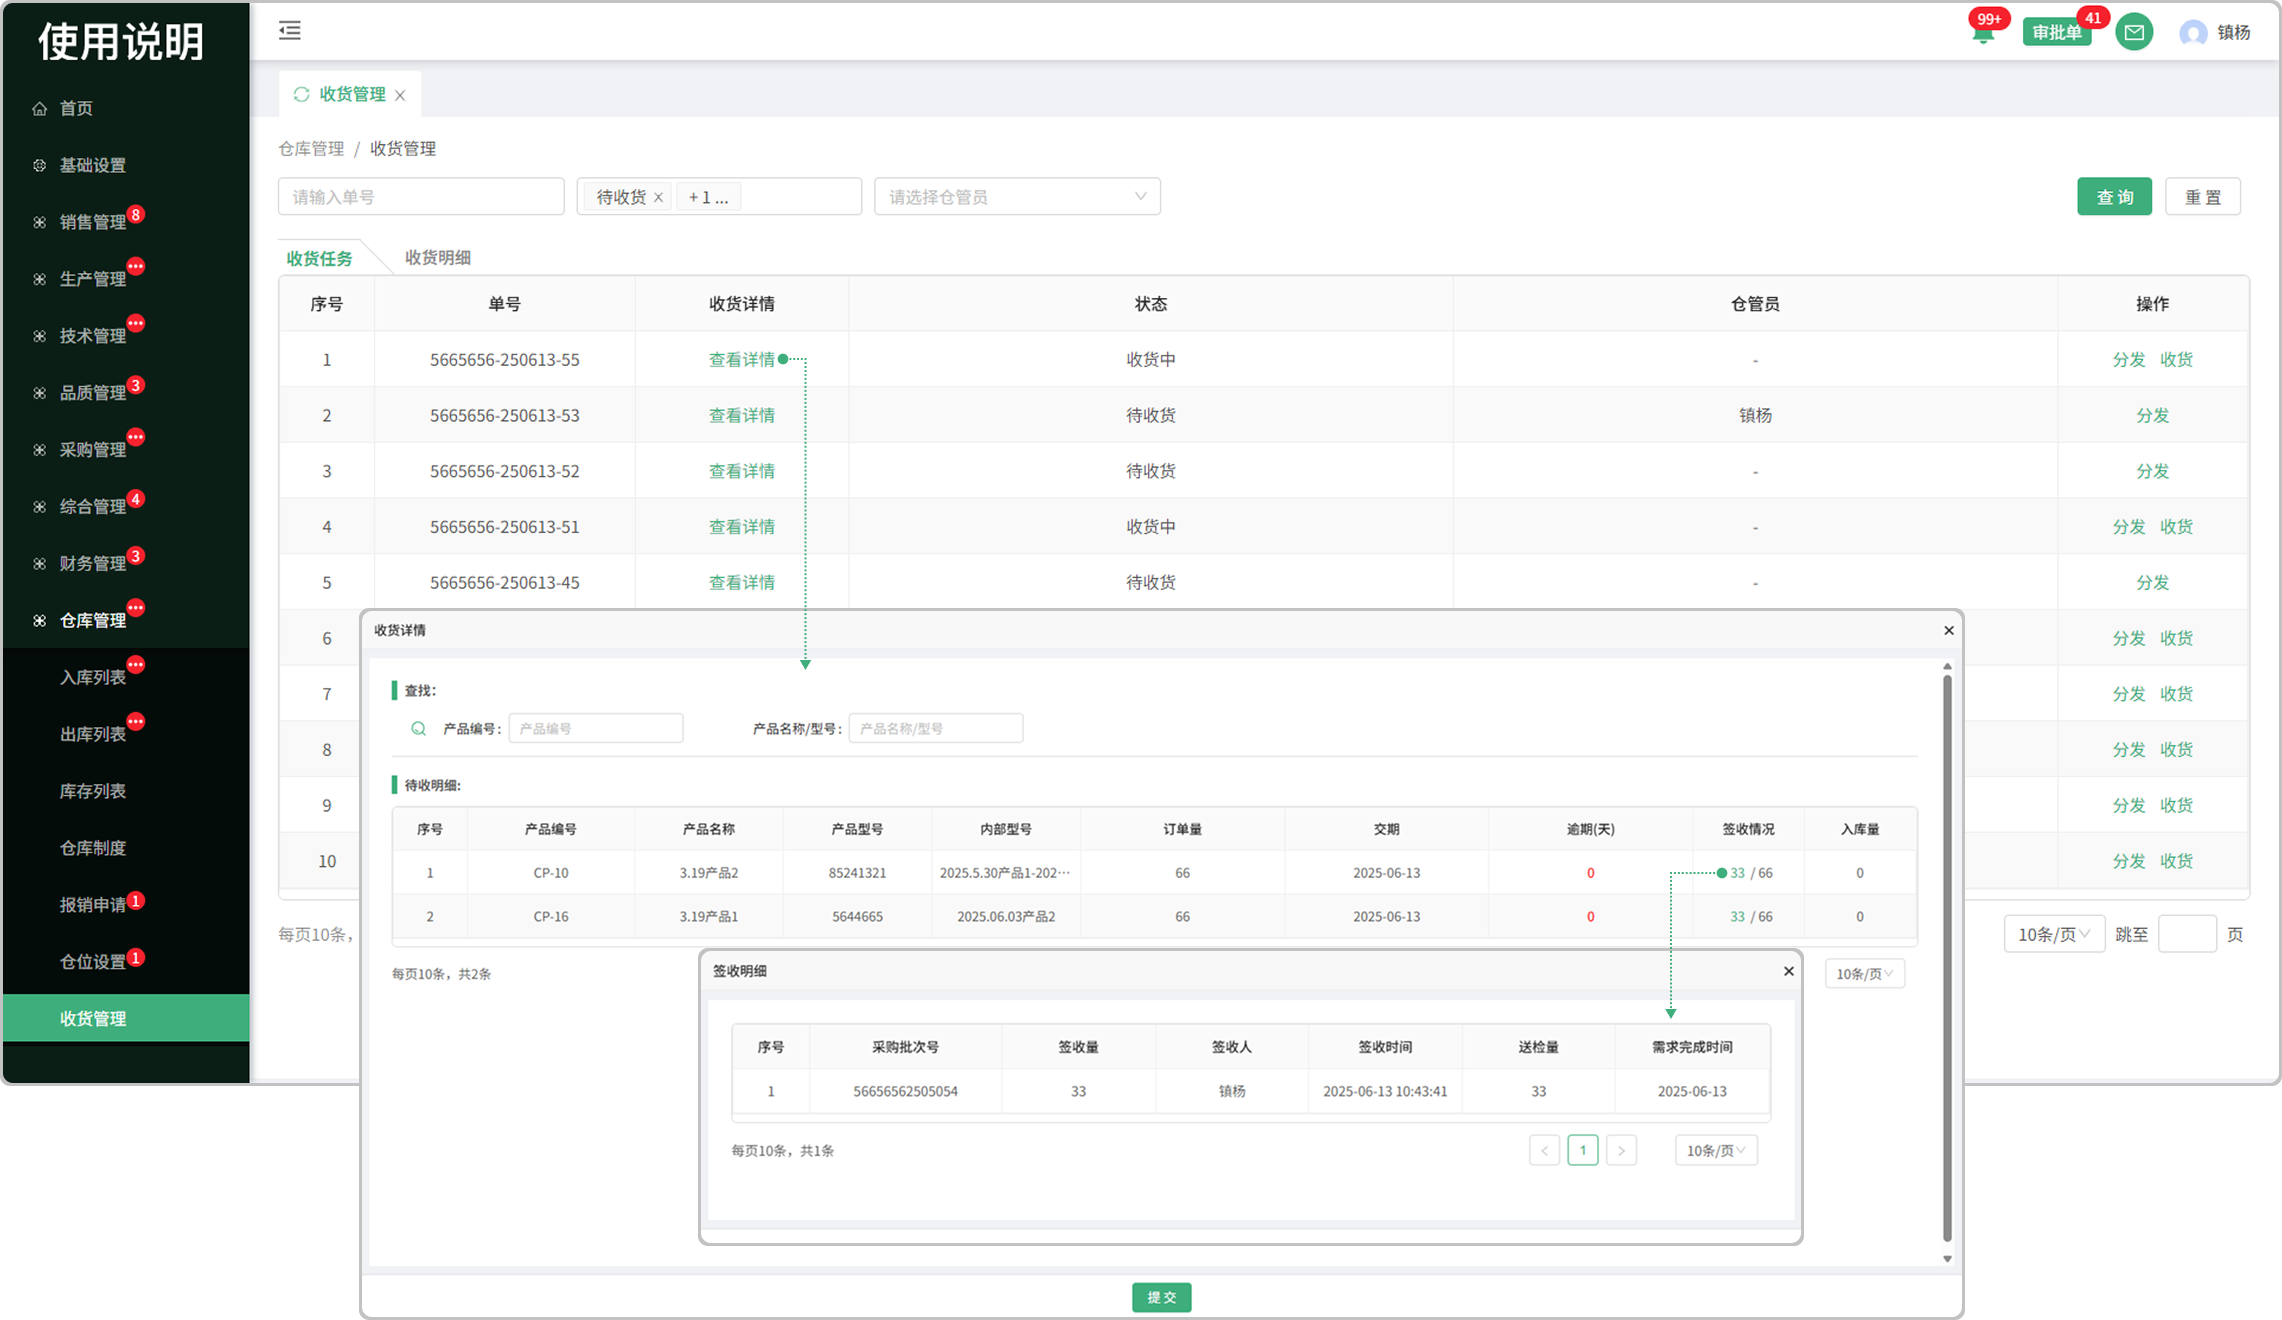
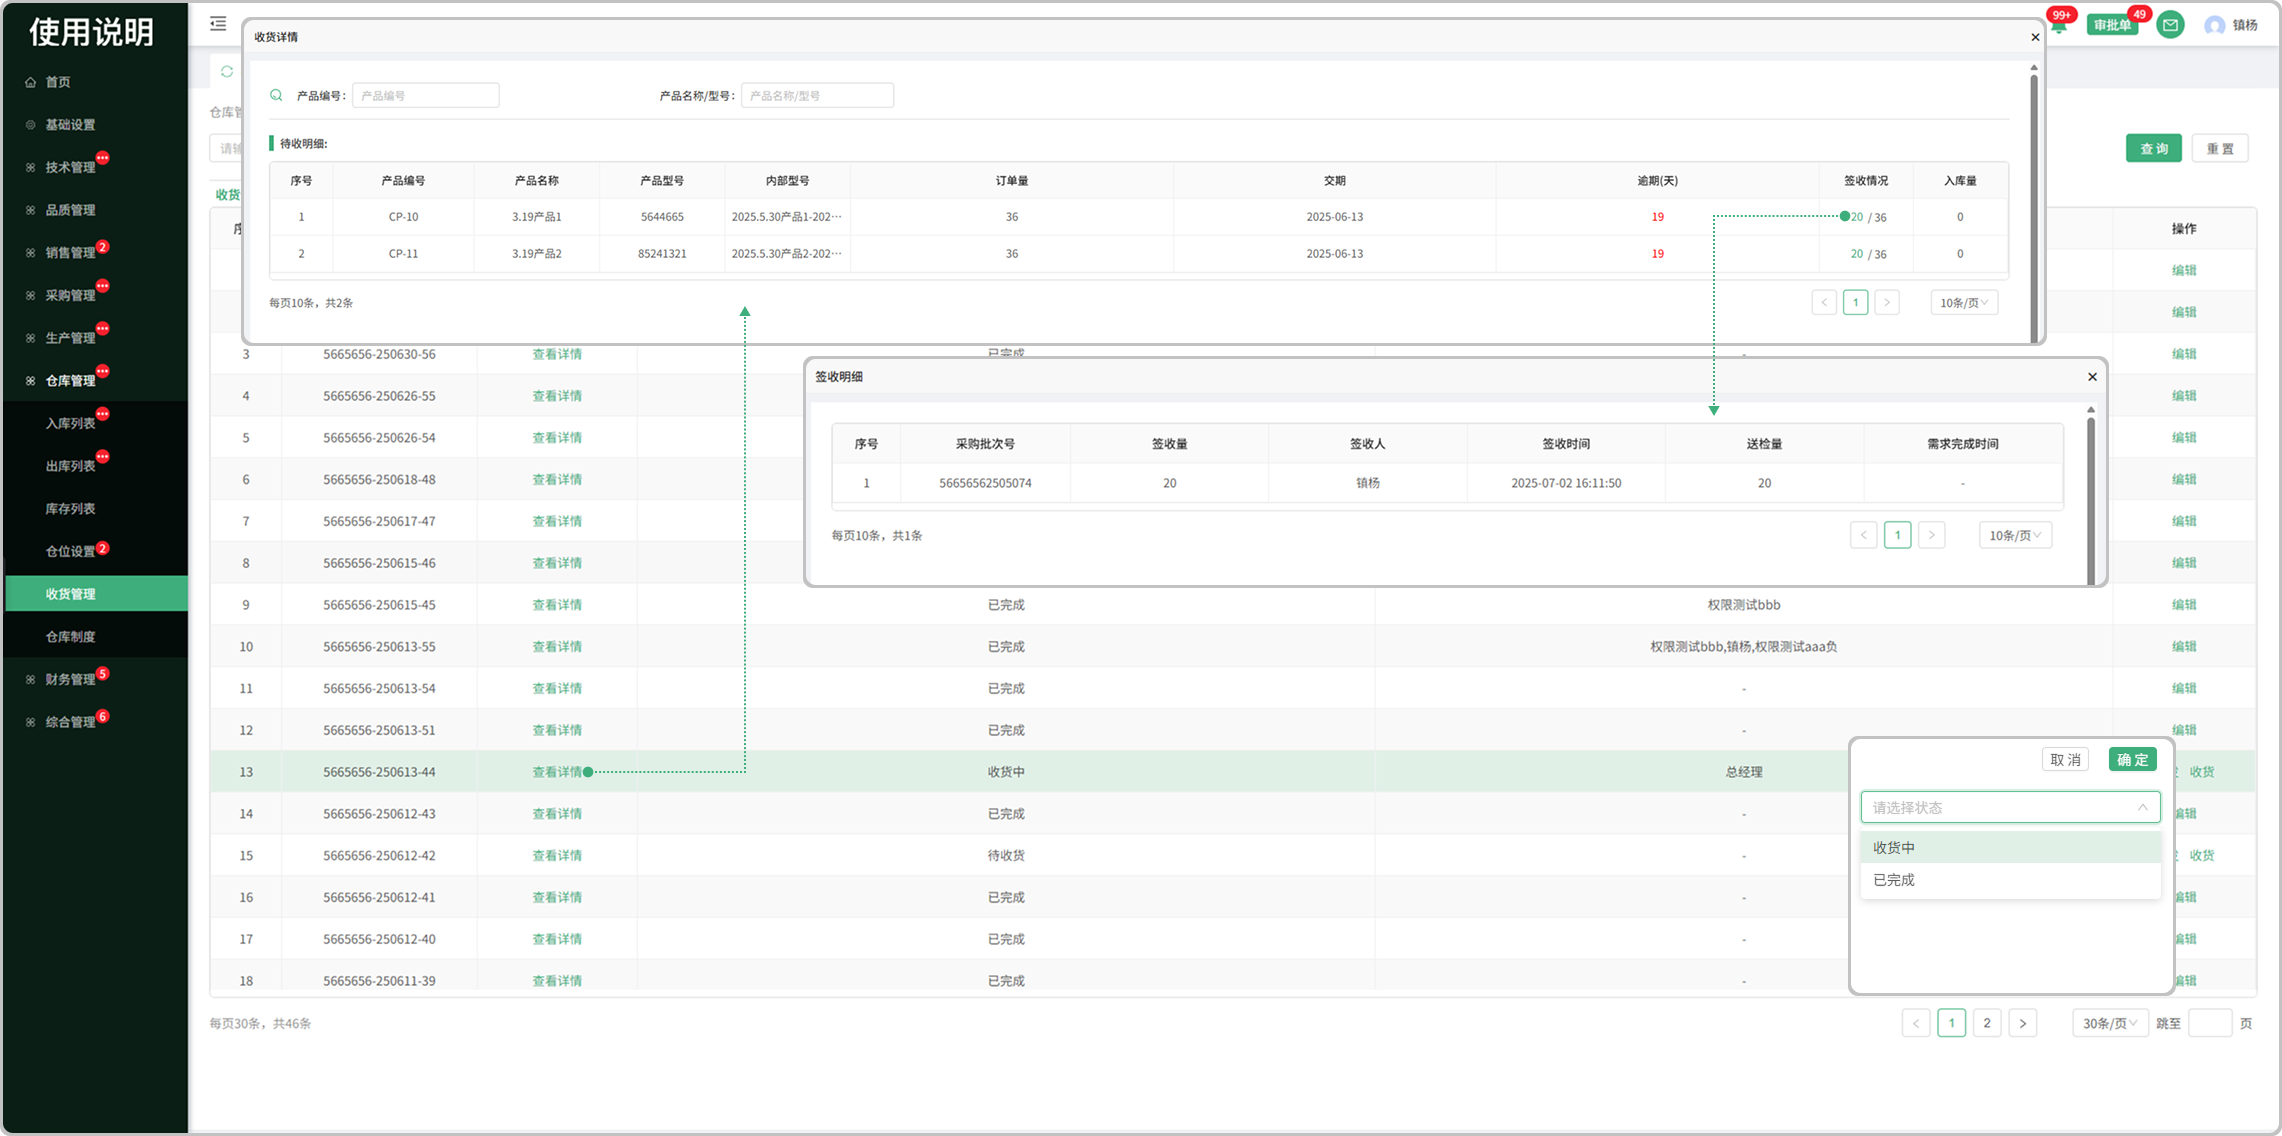
0704下午需求迭代内容添加

diff --git a/docs/销售管理/合同列表.md b/docs/销售管理/合同列表.md
@@ -26,29 +26,36 @@
 
   -部门成员只能扫码查看自己的合同详情信息
 
-#### 3.发货
+#### 3. 已签章合同修改订单数量
+
+* 已签章合同，可点击详情编辑合同订单数量
+  - 订单数量修改成功后，点击保存，弹窗显示修改记录
+  - 订单数修改成功后，未发生过调度（已安排“装配/采购/库存”任一方式）时，同步修改销售明细、财务合同、采购方合同等相关联订单数据量：
+
+
+#### 4.发货
 
 
 *  当销售方和采购方均是系统内的企业时，我放发货以后对方采购合同页面显示收货按钮
 
-* 点击发货按钮，填写申请量、需求发货时间，数据会流转到待发任务-发货请求列表中，由主管分配人员进行发货
+*  点击发货按钮，填写申请量、需求发货时间，数据会流转到待发任务-发货请求列表中，由主管分配人员进行发货
 
 
 
 
 ![如图所示](../file/htlb.png)
 
-#### 2. 保存功能
+#### 5. 保存功能
 * 编辑合同信息的时候，可以将合同暂存下来， 状态是未签章（支持删除）
 
 
-#### 3. 存为模板功能
+#### 6. 存为模板功能
 * 把合同信息中除了产品明细之外的内容，存成模板，供后续使用
 
-#### 4. 合同附件功能
+#### 7. 合同附件功能
 * 在签章前，可以上传一些允许被客户浏览的文件。
 
-#### 5. 签章功能
+#### 8. 签章功能
 * 可编辑的合同，合同信息拟定完毕后，可以同步发送给客户查看， 状态是已签章， 客户查看合同的方式包括：
 
     -使用系统的客户 ，可以登录自身系统，浏览合同，退回合同，签章
@@ -60,17 +67,17 @@
 * 接收到的，来自客户拟定好的合同，核对合同信息无误后，可以签章
 
 
-#### 6. 取消功能
+#### 9. 取消功能
 *  可编辑的合同，如果在合同签章后，发现合同信息有误，可以点击取消，重新编辑合同信息，类似于撤回的动作
 
  
 * 接收到的，来自客户拟定好的合同，签章后无法取消
 
 
-#### 7. 退回功能
+#### 10. 退回功能
 * 接收到来自客户拟定好的合同，如果合同信息有误，可以直接退回让客户重新修改
 
-#### 8.  开始生产功能：
+#### 11.  开始生产功能：
 * 签章后，销售人员可以点击开始生产，将生成销售订单，技术人员可以查看销售订单
 
 
@@ -78,21 +85,21 @@
 
 
 
-#### 9.  申请发票功能：签章后，向客户收款时，如果需要开发票，使用申请发票功能，后续由财务进行审批
+#### 12.  申请发票功能：签章后，向客户收款时，如果需要开发票，使用申请发票功能，后续由财务进行审批
 * 一次性填写本次针对该客户的多个开票申请，这样财务可以一起处理。
 
 
 * 开票申请被财务人员退回后，可以重新编辑
   ![如图所示](../file/sqfp.png)
 
-#### 10.  添加收款功能：签章后，向客户收款时，使用添加收款功能，后续由财务进行核对，审批
+#### 13.  添加收款功能：签章后，向客户收款时，使用添加收款功能，后续由财务进行核对，审批
 * 一次性填写本次针对该客户的多个收款申请，这样财务可以一起处理。
 
 * 收款申请被财务人员退回后，可以重新编辑
   ![如图所示](../file/tjsk.png)
 
 
-#### 11. 其余功能
+#### 14. 其余功能
 
 * 需方信息：来源于销售管理,客户列表中添加的客户信息
 

diff --git a/docs/仓储管理/收货管理.md b/docs/仓储管理/收货管理.md
@@ -10,15 +10,20 @@
 * 点击收货详情可查看产品/部件等待收明细的详细信息
 * 点击签收情况下对应的数字查看签收明细
 
+#### 2.编辑
+
+* 已完成状态下的收货任务，可点击编辑修改状态
+    - 状态修改成收货中时，分发和收货按钮再次显示，编辑按钮隐藏
+    - 不能改为待收货
+
 ![如图所示](../file/cg-shgl2.png)
 
-
-#### 2.分发
+#### 3.分发
 
 * 点击分发按钮可将对应的收货单分发给指定的人来完成（支持分发给多个人）
 
 
-#### 3.收货
+#### 4.收货
 
 * 点击收货按钮对采购回来的产品/部件等进行签收
 * 如果签收的产品部件等带有质检项，可进行送检到品质部进行检验入库
@@ -27,11 +32,12 @@
 ![如图所示](../file/cg-shgl1.png)
 
 
-
 # 收货明细
 
 
 * 在收货明细页面中可查看收货时产品/部件等的详细信息
+
+* 累计收货量可查看当前单号所有收货记录
 
 ![如图所示](../file/cg-shgl3.png)
 

diff --git a/docs/销售管理/询价列表.md b/docs/销售管理/询价列表.md
@@ -28,7 +28,7 @@
 
 #### 5.新增联系人
 
-* 客户列表中已经有了这个客户的信息，但是没有这个联系人信息时，需新增客户联系人后,在转为报价单
+* 客户列表中已经有了这个客户的信息，但是没有这个联系人信息时，需新增客户联系人后,再转为报价单
 
 #### 6.详情
 
